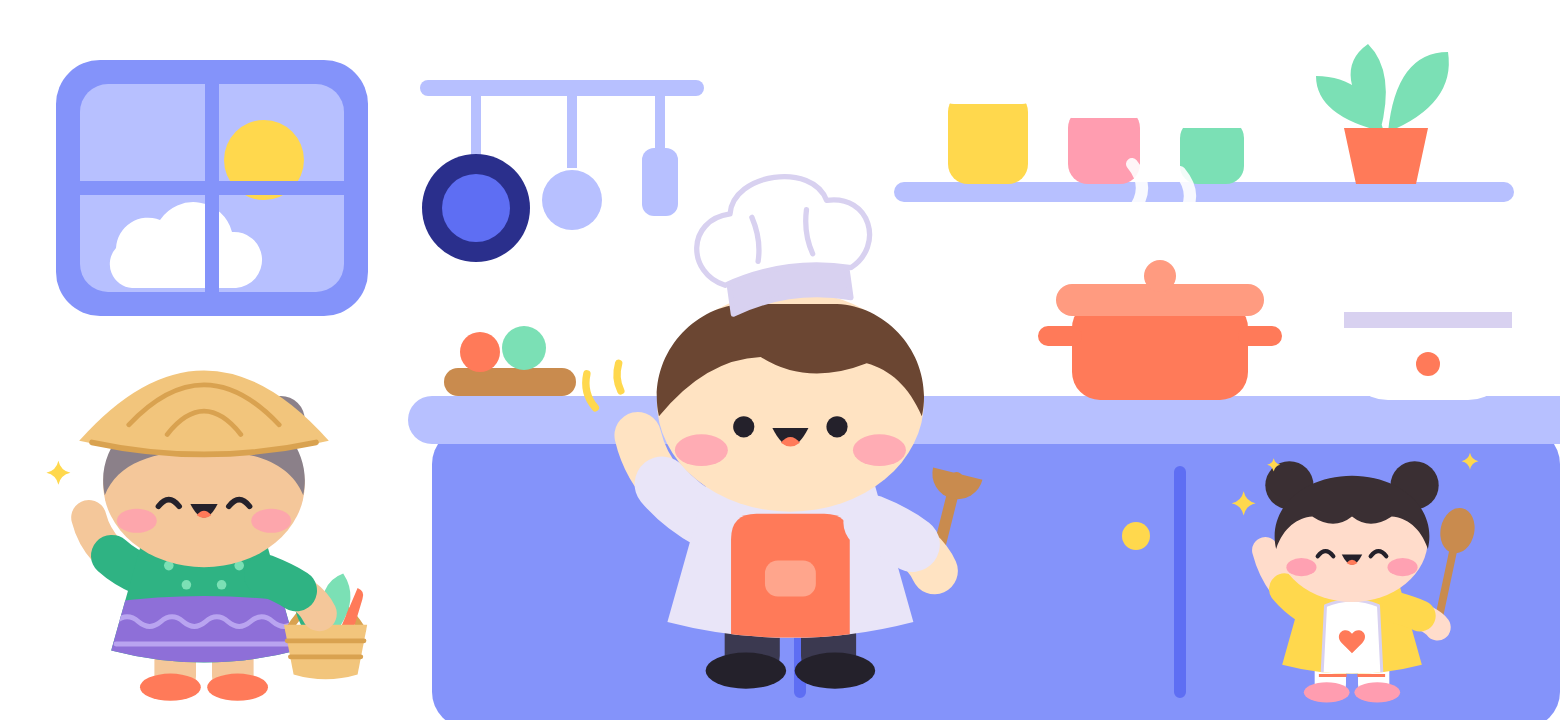
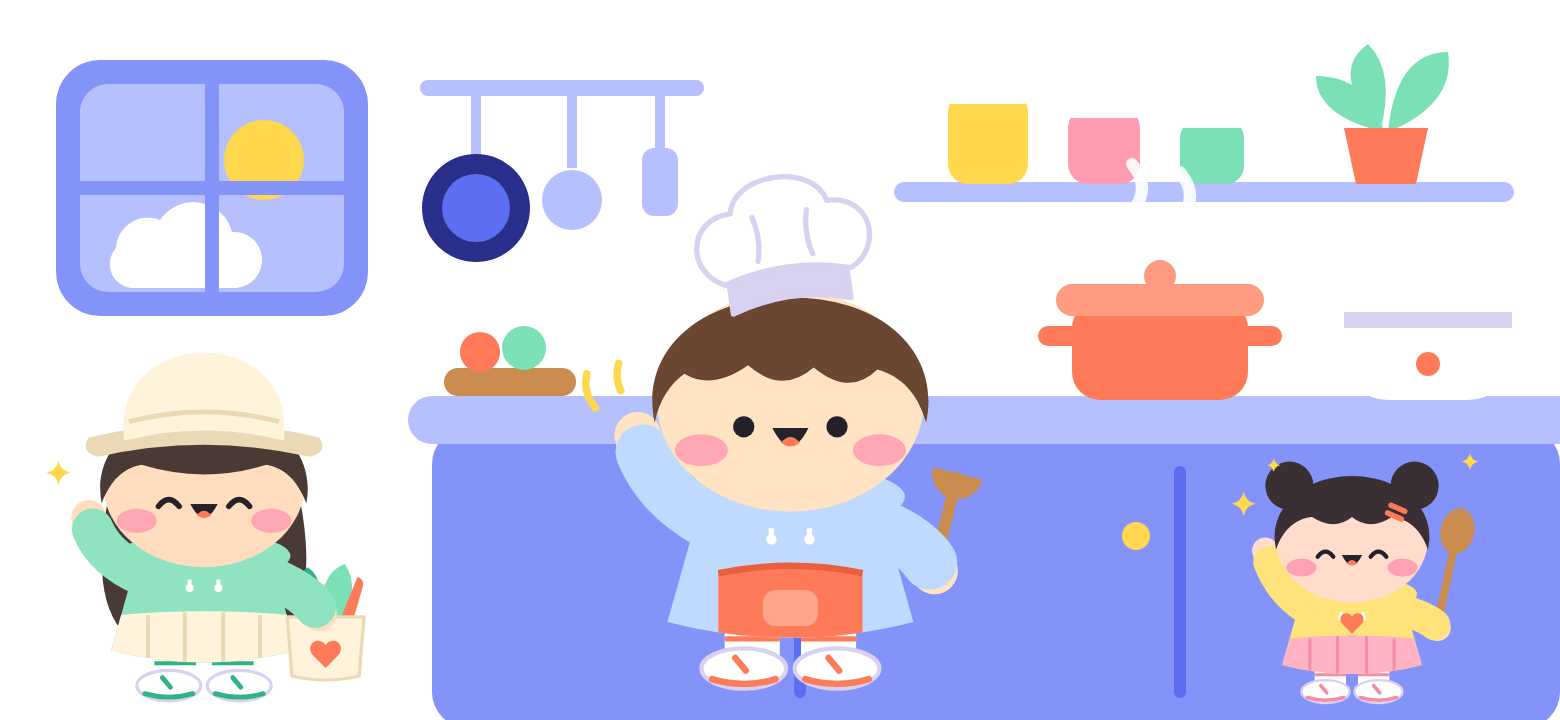
Dress the cast in Korean-style casual outfits
All three now wear oversized hoodies with long sleeves, long socks and
chunky sneakers. Chef Jiw keeps the chef hat over a sky-blue hoodie and a
coral half apron. The shopper becomes Bai Toey, a teen in a cream bucket
hat, mint hoodie and pleated skirt carrying a canvas tote of vegetables.
Nong Chim gets a hair clip, a yellow hoodie and a pink pleated skirt.

Claude-Session: https://claude.ai/code/session_01YRit4BDrXmu1xBXH17a6cf

diff --git a/src/data/images.ts b/src/data/images.ts
@@ -33,7 +33,7 @@ export const DISH_TINT: Record<string, string> = {
 // ฉากเต็มความกว้างใต้ชื่อหน้าจอ พื้นโปร่งใส วาดให้เข้ากับสีหัวจอของหน้านั้น
 export const SCENE = {
   home: { source: require('@/assets/images/chef/scene-home.png'), ratio: 780 / 360 }, // ครัวของทีมเชฟ (หัวจอสีน้ำเงิน)
-  plan: { source: require('@/assets/images/chef/scene-plan.png'), ratio: 780 / 300 }, // แผงตลาดของป้างอบ (หัวจอสีส้ม)
+  plan: { source: require('@/assets/images/chef/scene-plan.png'), ratio: 780 / 300 }, // แผงตลาดที่ใบเตยไปซื้อของ (หัวจอสีส้ม)
 };
 
 // ทีมเชฟ ตัวละครสามตัว แต่ละตัวดูแลงานของตัวเอง ใช้เฉพาะจังหวะที่ท่านั้นมีความหมาย ไม่แปะทุกหน้า
@@ -44,7 +44,7 @@ export const MASCOT = {
   cheer: require('@/assets/images/chef/cheer.png'), // สำเร็จ: ครบเวลา ทำจานแรกแล้ว
   think: require('@/assets/images/chef/think.png'), // กำลังรอคำตอบ
   oops: require('@/assets/images/chef/oops.png'), // มีอะไรผิดพลาด
-  // ป้างอบ: จ่ายตลาด
+  // ใบเตย: จ่ายตลาด
   shop: require('@/assets/images/chef/shop.png'), // แผนวันอาทิตย์ ราคาตลาด
   list: require('@/assets/images/chef/list.png'), // รายการของที่ต้องซื้อ
   // น้องชิม: ให้คะแนนตอนทำจบจาน

diff --git a/assets/images/chef/src/draw.py b/assets/images/chef/src/draw.py
@@ -46,19 +46,40 @@ def person(skin, skin_d, legs, shoes, outfit, hair, e, m, back='', arms_back='',
 {hair}{hat}{face(e, m, blush)}
 {arms_front}{front}''')
 
-# ---------- เชฟจิ๋ว: หมวกเชฟ ผมสั้นสีน้ำตาล เสื้อเชฟขาว ผ้าพันคอเหลือง ผ้ากันเปื้อนส้ม ----------
-S1, S1_D, JACKET, BROWN = '#FFE3C2', '#F6CFA3', '#E9E5F8', '#6B4632'
-chef_outfit = (JACKET, f'<path d="M184 420 V320 Q184 296 208 296 H272 Q296 296 296 320 V420 Z" fill="{CORAL}"/><rect x="216" y="340" width="48" height="34" rx="12" fill="{CORAL_L}"/>'
-               f'<path d="M206 268 Q240 300 274 268 L262 258 Q240 268 218 258 Z" fill="{YEL}"/>')
-chef_hair = f'<path d="M116 204 C104 150 146 100 196 98 L284 98 C334 100 376 150 364 204 C352 176 334 160 312 154 Q256 176 212 148 Q160 150 116 204 Z" fill="{BROWN}"/>'
+# ---------- ชุดวัยรุ่นแนวเกาหลี: ฮู้ดตัวโคร่งแขนยาวคลุมมือ กระโปรงพลีท ถุงเท้ายาว ผ้าใบพื้นหนา กิ๊บติดผม ----------
+def hoodie(color, dark, pocket=True):
+    return (f'<path d="M222 282 v34 M258 282 v34" stroke="#FFFFFF" stroke-width="5" stroke-linecap="round"/><circle cx="222" cy="320" r="5" fill="#FFFFFF"/><circle cx="258" cy="320" r="5" fill="#FFFFFF"/>'
+            + (f'<path d="M196 346 Q240 334 284 346 L296 392 Q240 402 184 392 Z" fill="none" stroke="{dark}" stroke-width="6" stroke-linejoin="round"/>' if pocket else ''))
+hood = lambda color: f'<ellipse cx="240" cy="280" rx="108" ry="30" fill="{color}"/>'
+def skirt(color, dark):
+    return f'<path d="M110 356 Q240 342 370 356 V440 H110 Z" fill="{color}"/><path d="M170 356 V430 M216 352 V430 M264 352 V430 M310 356 V430" stroke="{dark}" stroke-width="5" stroke-linecap="round"/>'
+def sneakers(accent):  # ผ้าใบขาวพื้นหนา มีแถบสี
+    return ''.join(f'<ellipse cx="{x}" cy="442" rx="40" ry="19" fill="#FFFFFF" stroke="{HAT_D}" stroke-width="4"/><path d="M{x-30} 452 q30 9 60 0" stroke="{accent}" stroke-width="6" stroke-linecap="round" fill="none"/><path d="M{x-8} 432 l10 12" stroke="{accent}" stroke-width="6" stroke-linecap="round"/>' for x in (196, 284))
+socks = lambda c: f'<path d="M178 402 h52 M250 402 h52 M178 414 h52 M250 414 h52" stroke="{c}" stroke-width="5"/>'
+clip = lambda x, y, r, c: f'<g transform="rotate({r} {x} {y})"><rect x="{x-17}" y="{y-5}" width="34" height="9" rx="4.5" fill="{c}"/><rect x="{x-17}" y="{y+9}" width="34" height="9" rx="4.5" fill="{c}"/></g>'
+
+def kperson(skin, hair, color, dark, e, m, accent, lower='', behind='', hat='', sock_c=None, **k):
+    """คนหนึ่งคนในชุดฮู้ด: lower = กระโปรงหรือผ้ากันเปื้อนที่ทับตัวเสื้อ behind = ผมยาวที่อยู่หลังตัว"""
+    blush = k.pop('blush', 0.85)
+    body = person(skin, skin, '#FFFFFF', '#FFFFFF', (color, hoodie(color, dark, not lower) + lower), hood(color) + hair, e, m, hat=hat, blush=blush,
+                  sock=socks(sock_c or accent), back=behind + k.pop('back', ''), **k)
+    # รองเท้าผ้าใบวาดทับวงรีรองเท้าพื้นฐาน และฮู้ดต้องอยู่หลังหัว จึงย้ายวงรีฮู้ดไปไว้ก่อนหัว
+    h = hood(color); head = body.index('<ellipse cx="240" cy="190"')
+    body = body.replace(h, '', 1); body = body[:head] + h + body[head:]
+    return body.replace(f'<ellipse cx="198" cy="444" rx="38" ry="17" fill="#FFFFFF"/><ellipse cx="282" cy="444" rx="38" ry="17" fill="#FFFFFF"/>', sneakers(accent))
+
+# เชฟจิ๋ว: หมวกเชฟใบเล็ก ผมหน้าม้าฟู ฮู้ดฟ้าอ่อน ผ้ากันเปื้อนส้มครึ่งตัว ผ้าใบแถบส้ม
+S1, SKY, SKY_D, BROWN = '#FFE3C2', '#BFD9FF', '#8FB6F2', '#6B4632'
+chef_hair = (f'<path d="M112 210 C98 146 150 92 240 92 C330 92 382 146 368 210 C360 182 344 166 322 160 Q296 186 262 158 Q232 184 200 156 Q166 180 140 164 C126 174 116 190 112 210 Z" fill="{BROWN}"/>')
+apron = f'<path d="M172 440 V352 Q240 338 308 352 V440 Z" fill="{CORAL}"/><rect x="214" y="368" width="52" height="34" rx="12" fill="{CORAL_L}"/><path d="M172 352 Q240 338 308 352" stroke="#E9603F" stroke-width="6" fill="none"/>'
 def toque(rot=-8):
     return (f'<g transform="translate(0 -52) rotate({rot} 240 140)"><path d="M184 152 Q240 134 296 152 L296 122 Q240 106 184 122 Z" fill="{HAT_D}" stroke="{HAT_D}" stroke-width="5" stroke-linejoin="round"/>'
             f'<path d="M180 124 C146 108 152 58 194 58 C202 20 278 20 286 58 C328 58 334 108 300 124 Q240 106 180 124 Z" fill="{HAT}" stroke="{HAT_D}" stroke-width="5" stroke-linejoin="round"/>'
             f'<path d="M214 64 q6 22 0 42 M266 64 q-6 22 0 42" stroke="{HAT_D}" stroke-width="5" stroke-linecap="round" fill="none"/></g>')
 def chef(e, m, **k):
     k.setdefault('hat', toque())
-    return person(S1, S1_D, '#3B3950', INK, chef_outfit, chef_hair, e, m, **k)
-A1 = lambda side, hx, hy, bx=0, by=0: arm(side, hx, hy, bx, by, S1, JACKET)
+    return kperson(S1, chef_hair, SKY, SKY_D, e, m, CORAL, lower=apron, **k)
+A1 = lambda side, hx, hy, bx=0, by=0: arm(side, hx, hy, bx, by, S1, SKY, 0.84)
 ladle = lambda x, y, r: f'<g transform="rotate({r} {x} {y})"><path d="M{x} {y+30} V{y-70}" stroke="{WOOD}" stroke-width="11" stroke-linecap="round"/><path d="M{x-24} {y-74} a24 24 0 0 0 48 0 z" fill="{WOOD}"/></g>'
 wok = lambda x, y: (f'<path d="M{x-74} {y} q74 62 148 0 z" fill="{INK}"/><path d="M{x+70} {y+2} l52 -14" stroke="{INK}" stroke-width="14" stroke-linecap="round"/>'
                     f'<circle cx="{x-30}" cy="{y-26}" r="10" fill="{GREEN_L}"/><circle cx="{x+2}" cy="{y-46}" r="10" fill="{CORAL}"/><circle cx="{x+30}" cy="{y-24}" r="10" fill="{YEL}"/><circle cx="{x-8}" cy="{y-14}" r="9" fill="{GREEN}"/>'
@@ -68,48 +89,45 @@ POSES = {
              front=f'<path d="M56 196 q-12 -14 -8 -32 M80 180 q-6 -12 -2 -26" stroke="{YEL}" stroke-width="7" stroke-linecap="round" fill="none"/>'),
   'cook': chef('dot', 'smile', arms_front=wok(262, 372) + A1('L', 196, 366, -30, 16) + A1('R', 372, 356, 26, 10)),
   'cheer': chef('happy', 'open', arms_back=A1('L', 92, 196, -18, 14) + A1('R', 388, 196, 18, 14), hat=toque(-14), front=star(54, 128, 22) + star(430, 116, 26) + star(404, 44, 13) + star(96, 60, 12)),
-  'think': chef(('dot', 9, -8), 'dash', arms_front=A1('L', 214, 372, -34, 20) + A1('R', 284, 258, 46, 16), hat=toque(6), blush=0.6,
+  'think': chef(('dot', 9, -8), 'dash', arms_front=A1('L', 214, 372, -34, 20) + A1('R', 284, 262, 46, 16), hat=toque(6), blush=0.6,
                 front=f'<circle cx="384" cy="120" r="8" fill="{HAT_D}"/><circle cx="408" cy="88" r="13" fill="{HAT_D}"/><circle cx="438" cy="42" r="22" fill="{HAT_D}"/>'),
-  'oops': chef('squeeze', 'wavy', arms_front=A1('L', 172, 238, -42, 26) + A1('R', 308, 238, 42, 26), hat=toque(-18), blush=0.5,
+  'oops': chef('squeeze', 'wavy', arms_front=A1('L', 172, 242, -42, 26) + A1('R', 308, 242, 42, 26), hat=toque(-18), blush=0.5,
                front='<path d="M414 96 q22 34 0 46 q-22 -12 0 -46 z" fill="#6CC5F5"/><path d="M60 120 l-22 -10 M54 154 l-24 2" stroke="#6CC5F5" stroke-width="7" stroke-linecap="round"/>'),
 }
 
-# ---------- ป้างอบ: งอบ ผมมวยสีเทา เสื้อเขียวลายจุด ผ้าถุงม่วง รองเท้าแตะ ถือตะกร้า ----------
-S2, S2_D, GREY, PURPLE, PURPLE_L = '#F4C79A', '#E7B07C', '#8B8089', '#8E6FD8', '#B9A4F0'
-ngob_outfit = (GREEN, ''.join(f'<circle cx="{x}" cy="{y}" r="6" fill="{GREEN_L}"/>' for x, y in [(196, 292), (240, 284), (284, 292), (218, 316), (262, 316)])
-               + f'<path d="M120 338 Q240 322 360 338 V430 H120 Z" fill="{PURPLE}"/><path d="M130 362 q14 -12 28 0 t28 0 t28 0 t28 0 t28 0 t28 0 t28 0 t28 0 M130 390 h230" stroke="{PURPLE_L}" stroke-width="6" fill="none" stroke-linecap="round"/>')
-ngob_hair = (f'<circle cx="336" cy="110" r="30" fill="{GREY}"/><path d="M116 204 C104 150 146 100 196 98 L284 98 C334 100 376 150 364 204 C348 164 304 148 240 148 C176 148 132 164 116 204 Z" fill="{GREY}"/>')
-ngob_hat = (f'<path d="M84 136 Q240 -40 396 136 Q240 172 84 136 Z" fill="{STRAW}"/><path d="M146 116 Q240 16 334 116 M194 128 Q240 70 286 128" stroke="{STRAW_D}" stroke-width="6" fill="none" stroke-linecap="round"/>'
-            f'<path d="M100 138 Q240 168 380 138" stroke="{STRAW_D}" stroke-width="7" fill="none" stroke-linecap="round"/>')
-def auntie(e, m, **k):
-    return person(S2, S2_D, S2, CORAL, ngob_outfit, ngob_hair, e, m, hat=ngob_hat, **k)
-A2 = lambda side, hx, hy, bx=0, by=0: arm(side, hx, hy, bx, by, S2, GREEN, 0.42)
-basket = lambda x, y: (f'<path d="M{x-46} {y} q46 -74 92 0" stroke="{STRAW_D}" stroke-width="9" fill="none" stroke-linecap="round"/>'
-    f'<path d="M{x-30} {y-4} q-22 -44 6 -62 q26 20 8 62 z" fill="{GREEN}"/><path d="M{x-4} {y-4} q-8 -54 26 -66 q20 30 -4 66 z" fill="{GREEN_L}"/>'
-    f'<path d="M{x+18} {y} l22 -52 q10 4 6 14 l-12 40 z" fill="{CORAL}"/>'
-    f'<path d="M{x-52} {y-6} h104 l-12 62 q-40 12 -80 0 z" fill="{STRAW}"/><path d="M{x-48} {y+14} h96 M{x-44} {y+34} h88" stroke="{STRAW_D}" stroke-width="6" stroke-linecap="round"/>')
+# ใบเตย: คนจ่ายตลาด หมวกบักเก็ตครีม ผมยาวหน้าม้า ฮู้ดเขียวมินต์ กระโปรงพลีทครีม ถุงผ้าใส่ผัก
+S2, MINT, MINT_D, CREAM, CREAM_D, DARKHAIR = '#FFDDBE', '#8FE3C0', '#55C79A', '#FFF3DC', '#EAD9B4', '#4A3A36'
+toey_behind = f'<path d="M124 190 C104 280 110 340 136 372 H344 C370 340 376 280 356 190 Z" fill="{DARKHAIR}"/>'
+toey_hair = f'<path d="M112 214 C100 150 152 96 240 96 C328 96 380 150 368 214 C356 184 340 170 318 166 Q240 190 162 166 C140 170 124 184 112 214 Z" fill="{DARKHAIR}"/>'
+bucket = (f'<path d="M96 132 Q240 96 384 132 Q396 150 372 156 Q240 126 108 156 Q84 150 96 132 Z" fill="{CREAM_D}"/>'
+          f'<path d="M140 136 C132 60 186 26 240 26 C294 26 348 60 340 136 Q240 110 140 136 Z" fill="{CREAM}"/><path d="M146 112 Q240 88 334 112" stroke="{CREAM_D}" stroke-width="6" fill="none"/>')
+def toey(e, m, **k):
+    return kperson(S2, toey_hair, MINT, MINT_D, e, m, GREEN, lower=skirt(CREAM, CREAM_D), behind=toey_behind, hat=bucket, **k)
+A2 = lambda side, hx, hy, bx=0, by=0: arm(side, hx, hy, bx, by, S2, MINT, 0.84)
+tote = lambda x, y: (f'<path d="M{x-26} {y-4} q26 -66 52 0" stroke="{CREAM_D}" stroke-width="8" fill="none" stroke-linecap="round"/>'
+    f'<path d="M{x-28} {y+2} q-22 -46 6 -64 q26 20 8 64 z" fill="{GREEN}"/><path d="M{x-2} {y+2} q-8 -56 26 -68 q20 30 -4 68 z" fill="{GREEN_L}"/><path d="M{x+18} {y+4} l22 -54 q10 4 6 14 l-12 42 z" fill="{CORAL}"/>'
+    f'<path d="M{x-48} {y} h96 l-6 74 q-42 10 -84 0 z" fill="{CREAM}" stroke="{CREAM_D}" stroke-width="4" stroke-linejoin="round"/>' + heart(x, y + 40, 0.8, CORAL))
 POSES.update({
-  'shop': auntie('happy', 'open', arms_back=A2('L', 96, 232, -22, 12), arms_front=basket(392, 372) + A2('R', 384, 352, 22, -2), front=star(58, 176, 15)),
-  'list': auntie('dot', 'smile', arms_front=f'<rect x="262" y="318" width="110" height="122" rx="14" fill="#FFFFFF" stroke="{HAT_D}" stroke-width="5"/>'
+  'shop': toey('happy', 'open', arms_back=A2('L', 96, 232, -22, 12), arms_front=tote(392, 356) + A2('R', 384, 352, 22, -2), front=star(58, 176, 15)),
+  'list': toey('dot', 'smile', arms_front=f'<rect x="262" y="318" width="110" height="122" rx="14" fill="#FFFFFF" stroke="{HAT_D}" stroke-width="5"/>'
            f'<path d="M282 350 l8 8 l14 -16 M282 384 l8 8 l14 -16" stroke="{GREEN}" stroke-width="7" fill="none" stroke-linecap="round" stroke-linejoin="round"/>'
            f'<path d="M318 352 h36 M318 386 h36 M284 418 h70" stroke="{HAT_D}" stroke-width="7" stroke-linecap="round"/>' + A2('R', 352, 380, 30, 0) + A2('L', 196, 372, -30, 18)),
 })
 
-# ---------- น้องชิม: ผมมวยคู่ผูกโบว์ส้ม ชุดเหลือง ผ้ากันเปื้อนขาวลายหัวใจ ถุงเท้าลาย รองเท้าชมพู ถือช้อนใหญ่ ----------
-S3, S3_D, BLACK = '#FFDCCB', '#F5BFAF', '#3A2F33'
-chim_outfit = (YEL, f'<path d="M190 420 L196 300 Q240 282 284 300 L290 420 Z" fill="#FFFFFF" stroke="{HAT_D}" stroke-width="5" stroke-linejoin="round"/>' + heart(240, 352, 0.9, CORAL))
-chim_hair = (f'<circle cx="136" cy="100" r="40" fill="{BLACK}"/><circle cx="344" cy="100" r="40" fill="{BLACK}"/><rect x="146" y="122" width="36" height="18" rx="9" fill="{CORAL}" transform="rotate(-40 164 131)"/><rect x="298" y="122" width="36" height="18" rx="9" fill="{CORAL}" transform="rotate(40 316 131)"/>'
-             f'<path d="M114 206 C98 138 160 84 240 84 C320 84 382 138 366 206 C354 170 330 154 306 152 Q270 176 240 152 Q210 176 174 152 C150 154 126 170 114 206 Z" fill="{BLACK}"/>')
-chim_sock = f'<path d="M185 404 h46 M249 404 h46 M185 416 h46 M249 416 h46" stroke="{CORAL}" stroke-width="5"/>'
+# น้องชิม: นักชิม ผมมวยคู่ติดกิ๊บ ฮู้ดเหลือง กระโปรงพลีทชมพู ถุงเท้าลาย ผ้าใบแถบชมพู ถือช้อนใหญ่
+S3, BUTTER, BUTTER_D, ROSE, ROSE_D, BLACK = '#FFDCCB', '#FFE27A', '#F2C744', '#FFB3C4', '#F58CA5', '#3A2F33'
+chim_hair = (f'<circle cx="136" cy="100" r="40" fill="{BLACK}"/><circle cx="344" cy="100" r="40" fill="{BLACK}"/>'
+             f'<path d="M114 206 C98 138 160 84 240 84 C320 84 382 138 366 206 C354 170 330 154 306 152 Q270 176 240 152 Q210 176 174 152 C150 154 126 170 114 206 Z" fill="{BLACK}"/>'
+             + clip(316, 138, 24, CORAL))
 def chim(e, m, **k):
     k.setdefault('blush', 0.95)
-    inner = person(S3, S3_D, '#FFFFFF', PINK, chim_outfit, chim_hair, e, m, sock=chim_sock, **k)
+    inner = kperson(S3, chim_hair, BUTTER, BUTTER_D, e, m, ROSE_D, lower=skirt(ROSE, ROSE_D) + heart(240, 322, 0.8, CORAL), sock_c=ROSE_D, **k)
     body = inner[inner.index('>') + 1:inner.rindex('</svg>')]
-    return SVG(f'<g transform="translate(240 460) scale(0.86) translate(-240 -460)">{body}</g>')  # ตัวเล็กกว่าผู้ใหญ่
-A3 = lambda side, hx, hy, bx=0, by=0: arm(side, hx, hy, bx, by, S3, YEL, 0.4)
+    return SVG(f'<g transform="translate(240 464) scale(0.86) translate(-240 -464)">{body}</g>')  # ตัวเล็กกว่าพี่ๆ
+A3 = lambda side, hx, hy, bx=0, by=0: arm(side, hx, hy, bx, by, S3, BUTTER, 0.84)
 bigspoon = lambda x, y, r: f'<g transform="rotate({r} {x} {y})"><path d="M{x} {y+24} v-150" stroke="{WOOD}" stroke-width="13" stroke-linecap="round"/><ellipse cx="{x}" cy="{y-150}" rx="28" ry="38" fill="{WOOD}"/></g>'
 POSES.update({
-  'sip': chim('happy', '', arms_front=f'<path d="M318 244 L262 226" stroke="{WOOD}" stroke-width="12" stroke-linecap="round"/><ellipse cx="246" cy="222" rx="24" ry="15" fill="{WOOD}"/>' + A3('R', 322, 248, 44, 22) + A3('L', 200, 368, -30, 18),
+  'sip': chim('happy', '', arms_front=f'<path d="M318 244 L262 226" stroke="{WOOD}" stroke-width="12" stroke-linecap="round"/><ellipse cx="246" cy="222" rx="24" ry="15" fill="{WOOD}"/>' + A3('R', 322, 250, 44, 22) + A3('L', 200, 368, -30, 18),
               front=heart(420, 120, 1.1) + heart(66, 150, 0.7)),
   'yum': chim('happy', 'open', arms_back=A3('L', 96, 208, -18, 14), arms_front=bigspoon(384, 322, 12) + A3('R', 382, 336, 22, 0), front=star(60, 130, 20) + star(436, 60, 14) + star(110, 66, 11)),
   'hmm': chim(('dot', -8, -7), 'dash', arms_front=bigspoon(372, 372, 22) + A3('R', 366, 372, 24, 4) + A3('L', 198, 368, -30, 18), blush=0.6,
@@ -156,7 +174,7 @@ home = scene(780, 360, ''.join([
 ]))
 open('scene-home.svg', 'w').write(home)
 
-# แผงตลาดของป้างอบ (หัวจอแผนวันอาทิตย์ สีส้ม)
+# แผงตลาดที่ใบเตยไปซื้อของ (หัวจอแผนวันอาทิตย์ สีส้ม)
 O1, O2 = '#EE7F22', '#FFC98A'
 crate = lambda x, y, w: f'<rect x="{x}" y="{y}" width="{w}" height="78" rx="10" fill="{STRAW}"/><path d="M{x+6} {y+26} h{w-12} M{x+6} {y+52} h{w-12}" stroke="{STRAW_D}" stroke-width="6" stroke-linecap="round"/>'
 market = scene(780, 300, ''.join([

diff --git a/README.md b/README.md
@@ -80,17 +80,17 @@ select created_at, kind, name, contact, paid_note, source from waitlist order by
 
 ## ตัวละคร
 
-ทีมเชฟ 3 ตัว เป็นภาพแบน คนตัวเล็กหัวโต มีผม เสื้อผ้า แขนขา และของใช้ประจำตัว ต่างกันที่ขนาด สีผิว ทรงผม และชุด แต่ละตัวดูแลงานของตัวเอง และใช้เฉพาะจังหวะที่มีความหมาย ไม่แปะทุกหน้า (ดู `MASCOT` ที่ `src/data/images.ts`)
+ทีมเชฟ 3 คน เป็นภาพแบน คนตัวเล็กหัวโตในชุดวัยรุ่นแนวเกาหลี (ฮู้ดตัวโคร่ง กระโปรงพลีท ถุงเท้ายาว ผ้าใบ) ต่างกันที่ขนาด สีผิว ทรงผม และสีชุด แต่ละคนดูแลงานของตัวเอง และใช้เฉพาะจังหวะที่มีความหมาย ไม่แปะทุกหน้า (ดู `MASCOT` ที่ `src/data/images.ts`)
 
-| ตัวละคร | ชุด | ใช้ตอน |
+| ตัวละคร | หน้าตาและชุด | ใช้ตอน |
 |---|---|---|
-| เชฟจิ๋ว | หมวกเชฟ ผมสั้นสีน้ำตาล เสื้อเชฟ ผ้าพันคอเหลือง ผ้ากันเปื้อนส้ม ถือกระบวยหรือกระทะ | ทักทายที่หน้าร้านและหน้าแนะนำแอป ครบเวลา รอคำตอบ มีข้อผิดพลาด |
-| ป้างอบ | งอบ ผมมวยสีเทา เสื้อเขียวลายจุด ผ้าถุงม่วง รองเท้าแตะ ถือตะกร้าผัก | แผนวันอาทิตย์ รายการของที่ต้องซื้อ ราคาตลาด |
-| น้องชิม | ผมมวยคู่ผูกโบว์ ชุดเหลือง ผ้ากันเปื้อนขาวลายหัวใจ ถุงเท้าลาย ถือช้อนใหญ่ | ชิมให้คะแนนตอนทำจบจาน หน้าตาเปลี่ยนตามคะแนน |
+| เชฟจิ๋ว | หมวกเชฟ ผมหน้าม้าสีน้ำตาล ฮู้ดฟ้า ผ้ากันเปื้อนส้ม ถือกระบวยหรือกระทะ | ทักทายที่หน้าร้านและหน้าแนะนำแอป ครบเวลา รอคำตอบ มีข้อผิดพลาด |
+| ใบเตย | หมวกบักเก็ต ผมยาว ฮู้ดเขียวมินต์ กระโปรงครีม ถือถุงผ้าใส่ผัก | แผนวันอาทิตย์ รายการของที่ต้องซื้อ ราคาตลาด |
+| น้องชิม | ผมมวยคู่ติดกิ๊บ ฮู้ดเหลือง กระโปรงชมพู ถือช้อนใหญ่ | ชิมให้คะแนนตอนทำจบจาน หน้าตาเปลี่ยนตามคะแนน |
 
-ฉาก: หน้าร้านเป็นครัวของทีมเชฟ และหน้าแผนวันอาทิตย์เป็นแผงตลาดของป้างอบ (ดู `SCENE` ในไฟล์เดียวกัน) หัวข้อใช้ฟอนต์ Mitr
+ฉาก: หน้าร้านเป็นครัวของทีมเชฟ และหน้าแผนวันอาทิตย์เป็นแผงตลาด (ดู `SCENE` ในไฟล์เดียวกัน) หัวข้อใช้ฟอนต์ Mitr
 
-วาดเองเป็น SVG: แก้ท่า สี ฉาก หรือเพิ่มตัวละครที่ `assets/images/chef/src/draw.py` รันแล้วได้ SVG ใหม่ จากนั้น `node raster.js ..` ในโฟลเดอร์เดียวกันแปลงเป็น PNG
+วาดเองเป็น SVG: แก้ท่า สี ชุด ฉาก หรือเพิ่มตัวละครที่ `assets/images/chef/src/draw.py` รันแล้วได้ SVG ใหม่ จากนั้น `node raster.js ..` ในโฟลเดอร์เดียวกันแปลงเป็น PNG
 
 ## สถานะ
 
